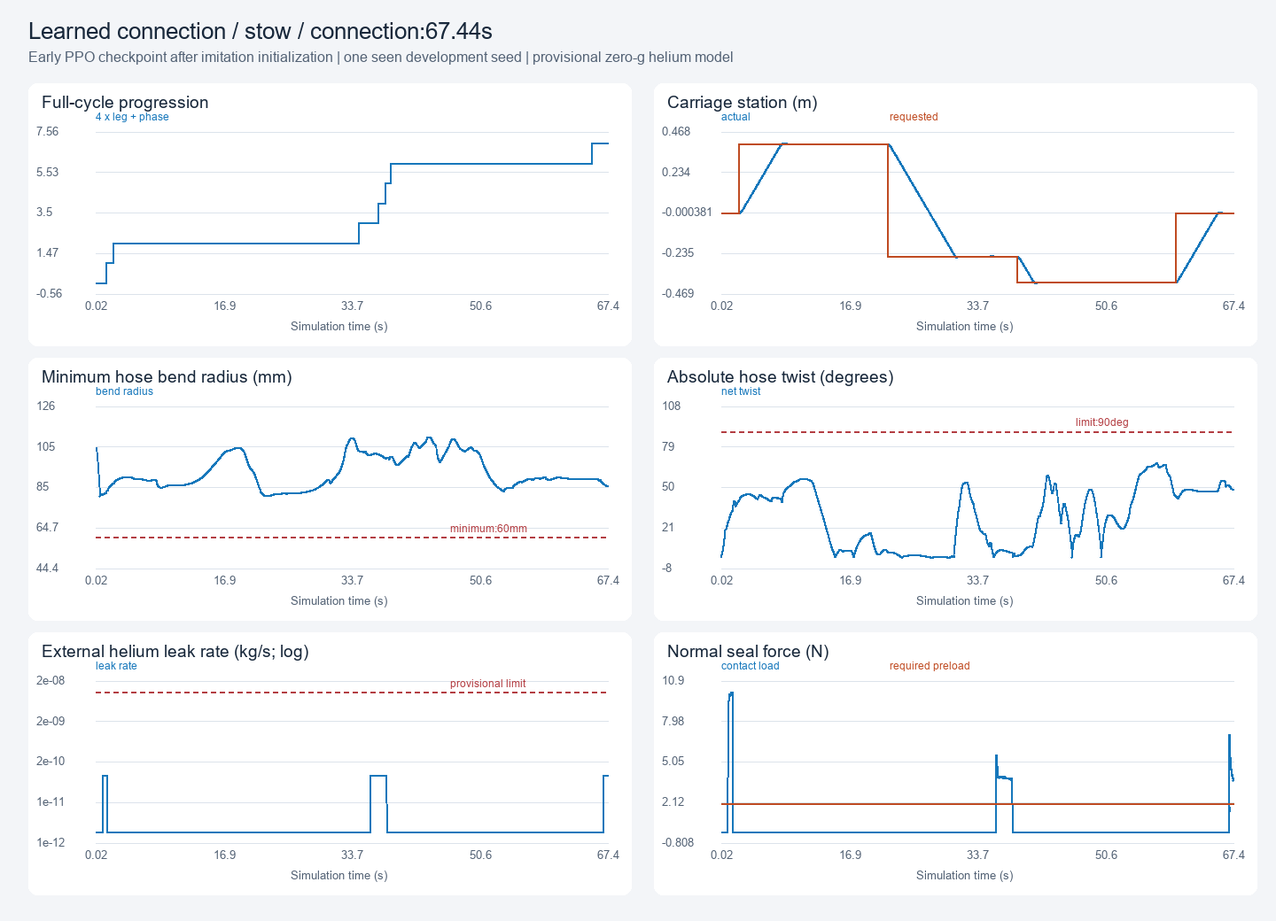
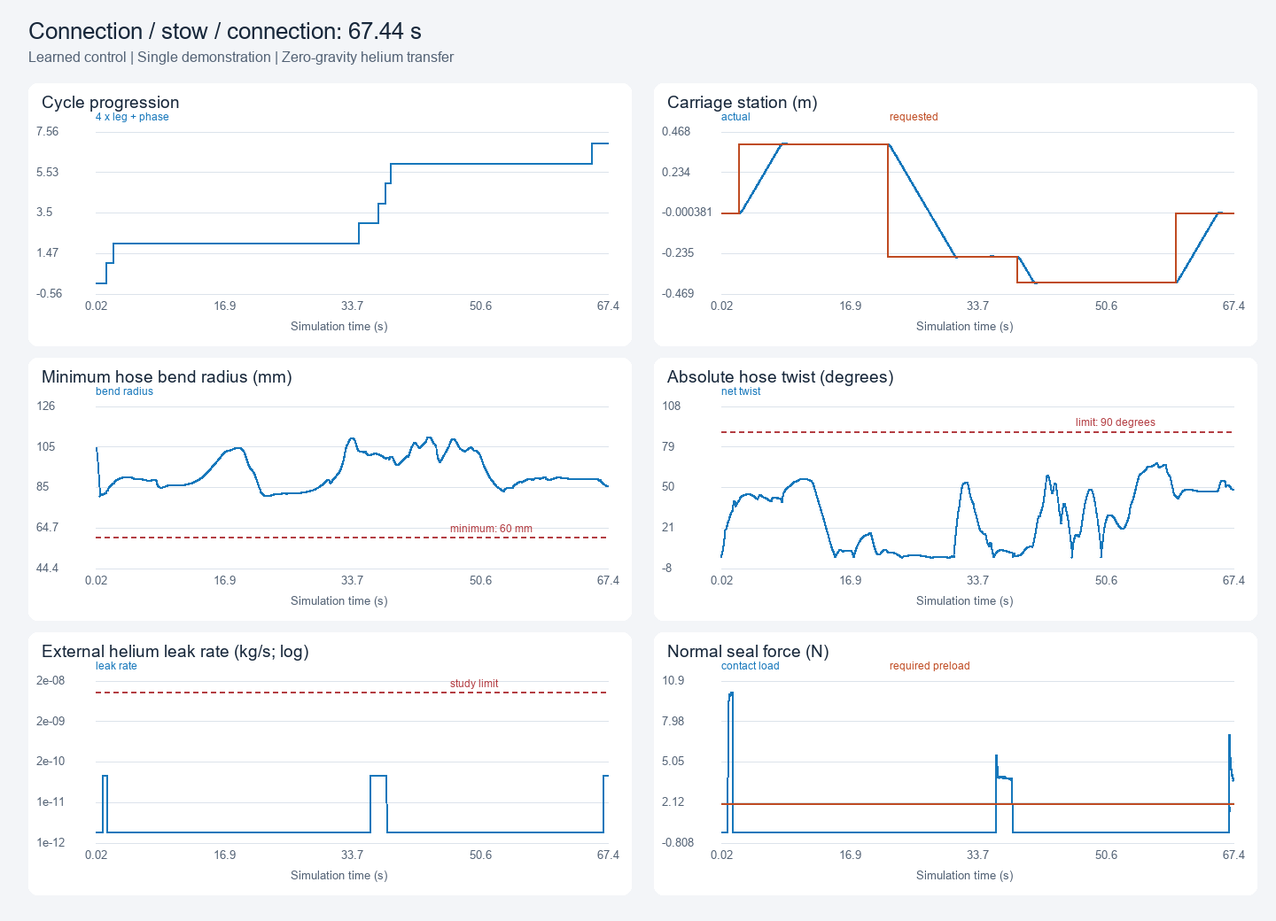
Simplify SHERPA copy and remove run-history clutter (#77)

diff --git a/projects/modeling/sherpa/training/index.html b/projects/modeling/sherpa/training/index.html
@@ -91,13 +91,13 @@ h2:hover .gy-hi{transform:rotate(-10deg) scale(1.1)}
 <header class="sm-intro"><p class="sm-eyebrow"><a href="../../../../index.html">Home</a> / <a href="../../">Simulations</a> / <a href="../">SHERPA</a></p>
 <p class="sm-eyebrow">SHERPA / Robot training study</p><h1>Arm, hose and rail</h1><p class="sm-lead">Circular-rail dynamics, coordinated docking policies and a straight-rail comparison.</p></header>
 <nav class="sm-nav" data-sm-strip="Training studies" tabindex="0" aria-label="Training studies, scroll horizontally"><a href="../robotics/">Mission robotics</a><a href="../refuel/">Mission refueling</a><a href="#rail-cart">Linear rail</a><a href="#circular-rail">Circular rail</a><a href="#rail-trade-study">Rail results</a><a href="#learned-cycle">Learned cycle</a><a href="#continuous-cycle">Scripted cycle</a><a href="#helium-connect">Connection</a><a href="#helium-stow">Purge stow</a><a href="#diagnostics">Plots</a></nav>
-<p>The local MuJoCo model uses a seven-joint Franka arm as a training proxy for the SHERPA FREND arms, a segmented flexible hose and zero gravity. The spacecraft deck is fixed; spacecraft recoil and attitude motion are outside this model. Each rail adds one degree of freedom. The original straight-rail preview uses a 1 m stroke; the matched PPO study uses 0.875 m of travel for each geometry. In this simplified model, the arm and hose reel ride on one cart and the sockets stay fixed.</p>
-<section id="design-alignment" aria-labelledby="design-alignment-title"><h2 id="design-alignment-title">SHERPA layout and training scope</h2>
+<p>This zero-gravity MuJoCo study uses a seven-joint Franka arm, a flexible hose and a rail cart. The arm and reel share the cart; the sockets remain fixed. The rail comparison uses 0.875 m of travel.</p>
+<section id="design-alignment" aria-labelledby="design-alignment-title"><h2 id="design-alignment-title">SHERPA layout</h2>
 <p>The intended SHERPA arrangement uses FREND arms on rail carts. A camera can be positioned by any available FREND arm, including an assisting arm observing hose handling. The hose carriages are intended to stow below the rail. The <a href="../robotics/#14_client_axis_lidar_access">CAD servicing views</a> and <a href="../refuel/#04_customer_refueling">hose retrieval and stow sequence</a> provide the mission context.</p>
-<p>The results below use a single fixed external RGB-D camera and a simplified reel/cart assembly with a lower purge socket. They establish a control baseline for that arrangement. Camera positioning by a FREND arm, visibility from its changing viewpoint and retrieval from the below-rail stow layout still need to be modeled and evaluated together.</p></section>
+<p>The training setup uses a fixed external RGB-D camera, a pregrasped connector and a lower purge socket. The next configuration adds a FREND-positioned camera and hose retrieval from the below-rail stow location.</p></section>
 <section class="sm-film" id="rail-cart" aria-labelledby="rail-cart-title">
 <p class="sm-eyebrow">Linear rail trade study / Scripted preview / Silent</p>
-<h2 id="rail-cart-title">Linear rail trade-study baseline</h2><p id="rail-cart-description">The intended SHERPA rail is circular. This straight-rail alternative is a scripted trade-study baseline: one translation axis carries the arm and reel, with the valve closed and the connector clear of the socket. It travels in both directions and returns to center. Dimensions, mass and drive parameters are provisional; this original preview is separate from the circular simulation and learned policies below.</p>
+<h2 id="rail-cart-title">Linear rail trade-study baseline</h2><p id="rail-cart-description">The intended SHERPA rail is circular. This straight-rail alternative is a scripted trade-study baseline: one translation axis carries the arm and reel, with the valve closed and the connector clear of the socket. It travels in both directions and returns to center. The preview shows carriage travel with the arm and reel mounted together.</p>
 <figure><video controls playsinline preload="none" width="960" height="720" style="aspect-ratio:960/720" poster="../../../../assets/media/modeling/sherpa-training/rail-cart.jpg" aria-label="Linear rail trade-study baseline" aria-describedby="rail-cart-description"><source src="../../../../assets/media/modeling/sherpa-training/rail-cart.mp4" type="video/mp4"><p><a href="../../../../assets/media/modeling/sherpa-training/rail-cart.mp4">Open Linear rail trade-study baseline MP4</a></p></video><figcaption>Linear rail trade-study baseline with scripted motion.</figcaption></figure></section><section class="sm-film" id="helium-connect" aria-labelledby="helium-connect-title">
 <p class="sm-eyebrow">Learned policy evaluation / Silent</p>
 <h2 id="helium-connect-title">Learned helium connection</h2><p id="helium-connect-description">Deterministic PPO rollout: an already grasped hose starts 40 mm from the overhead socket, aligns, seats and holds a helium leak check. The policy uses estimated RGB-D marker positions, noisy encoders and simulated instruments.</p>
@@ -106,16 +106,16 @@ h2:hover .gy-hi{transform:rotate(-10deg) scale(1.1)}
 <h2 id="helium-stow-title">Learned closed-return purge stow</h2><p id="helium-stow-description">Deterministic PPO rollout into the lower, upward-facing socket. The policy establishes a sealed hold with helium returning to a closed reservoir. The modeled task ends at purge initiation and stable pressure hold.</p>
 <figure><video controls playsinline preload="none" width="640" height="480" style="aspect-ratio:640/480" poster="../../../../assets/media/modeling/sherpa-training/helium-stow.jpg" aria-label="Learned closed-return purge stow" aria-describedby="helium-stow-description"><source src="../../../../assets/media/modeling/sherpa-training/helium-stow.mp4" type="video/mp4"><p><a href="../../../../assets/media/modeling/sherpa-training/helium-stow.mp4">Open Learned closed-return purge stow MP4</a></p></video><figcaption>Learned closed-return purge stow. Single policy evaluation rollout.</figcaption></figure></section>
 <section class="sm-film" id="circular-rail" aria-labelledby="circular-rail-title">
-<h2 id="circular-rail-title">Circular rail: carriage, arm and reel</h2><p id="circular-rail-description">The SHERPA source rail has a 1.25 m median radius. This proxy uses a provisional ±0.35 rad arc (0.875 m travel). Carriage yaw follows the track angle; the arm and reel turn with it. The scripted sweep keeps the valve closed and the connector clear of both sockets.</p>
+<h2 id="circular-rail-title">Circular rail: carriage, arm and reel</h2><p id="circular-rail-description">The SHERPA source rail has a 1.25 m median radius. The model uses a ±0.35 rad arc (0.875 m travel). Carriage yaw follows the track angle; the arm and reel turn with it. The scripted sweep keeps the valve closed and the connector clear of both sockets.</p>
 <figure><video controls playsinline preload="none" width="640" height="480" style="aspect-ratio:640/480" poster="../../../../assets/media/modeling/sherpa-training/circular-rail.jpg" aria-describedby="circular-rail-description"><source src="../../../../assets/media/modeling/sherpa-training/circular-rail.mp4" type="video/mp4"><p><a href="../../../../assets/media/modeling/sherpa-training/circular-rail.mp4">Open Circular rail: carriage, arm and reel MP4</a></p></video><figcaption>Scripted mechanics check. The swept clear-stow pose had no detected non-mate track/socket penetrations. Minimum hose bend radius was 79.3 mm; peak tangential drive force was 17.38 N. The checks use the training-model fixtures.</figcaption></figure></section>
 <section class="sm-film" id="circular-ppo-connect" aria-labelledby="circular-ppo-connect-title">
 <h2 id="circular-ppo-connect-title">Circular rail: learned near-socket connection</h2><p id="circular-ppo-connect-description">A PPO policy commands seven arm joints, a valve request and the cart drive from 61 instrument observations. This near-socket curriculum starts 40 mm from the selected socket with cart offsets within ±3 mm. Training focuses on final approach and docking.</p>
 <figure><video controls playsinline preload="none" width="640" height="480" style="aspect-ratio:640/480" poster="../../../../assets/media/modeling/sherpa-training/circular-ppo-connect.jpg" aria-describedby="circular-ppo-connect-description"><source src="../../../../assets/media/modeling/sherpa-training/circular-ppo-connect.mp4" type="video/mp4"><p><a href="../../../../assets/media/modeling/sherpa-training/circular-ppo-connect.mp4">Open Circular rail: learned near-socket connection MP4</a></p></video><figcaption>Successful connection rollout. The paired stow rollout failed; aggregate results are shown below.</figcaption></figure></section>
 <section class="sm-film" id="rail-trade-study" aria-labelledby="rail-trade-title">
 <h2 id="rail-trade-title">Linear versus circular rail</h2>
-<p>Both near-socket policies trained for 16,384 PPO steps, initialized from fixed-base weights and successful reference demonstrations. The same arm, fixtures, pressure assumptions and 0.875 m travel bounds are used. Evaluation covers ten connection and ten stow trials per geometry, with initial cart offsets within ±3 mm. This compares near-socket docking.</p>
+<p>Both rail policies use the same arm, fixtures and 0.875 m travel. Each trained for 16,384 PPO steps and was evaluated on ten connection and ten stow trials, starting near the socket.</p>
 <div style="overflow-x:auto" tabindex="0" role="region" aria-label="Measured near-socket rail comparison, scroll horizontally"><table style="width:100%;border-collapse:collapse;text-align:left;line-height:1.6">
-<caption style="text-align:left;padding:12px 0">Measured near-socket results; provisional simulation</caption>
+<caption style="text-align:left;padding:12px 0">Near-socket docking results</caption>
 <thead><tr><th scope="col">Metric</th><th scope="col">Linear rail</th><th scope="col">Circular rail</th></tr></thead><tbody>
 <tr><th scope="row">Connection success</th><td>9/10</td><td>8/10</td></tr>
 <tr><th scope="row">Stow success</th><td>5/10</td><td>3/10</td></tr>
@@ -126,18 +126,18 @@ h2:hover .gy-hi{transform:rotate(-10deg) scale(1.1)}
 <tr><th scope="row">All trials: maximum hose net twist</th><td>0.458 rad</td><td>0.588 rad</td></tr>
 <tr><th scope="row">Separate inverse-kinematic port screen</th><td>35/36</td><td>36/36</td></tr>
 </tbody></table></div>
-<p>Overlapping uncertainty intervals leave the configuration ranking unresolved. Duration and mechanical work average successful trials only; work integrates absolute actuator power. The 36-port inverse-kinematics screen uses identical world poses and matched travel. Dynamic reach also depends on collision clearance and hose routing.</p>
+<p>Error bars show 95% Wilson intervals. Duration and mechanical work average successful trials. The port screen measures inverse-kinematic reach across 36 shared target poses.</p>
 <figure><a href="../../../../assets/media/modeling/sherpa-training/rail-policy-comparison.png"><img src="../../../../assets/media/modeling/sherpa-training/rail-policy-comparison.png" width="1100" height="620" loading="lazy" decoding="async" style="display:block;width:100%;height:auto" alt="Fresh held-out docking success: linear 9 of 10 connection and 5 of 10 stow; circular 8 of 10 connection and 3 of 10 stow, with Wilson 95 percent intervals."></a><figcaption>Matched near-socket policy evaluation. Error bars show the uncertainty from ten trials per task.</figcaption></figure>
 <p><a href="../../../../assets/media/modeling/sherpa-training/near-socket-comparison.json">Trial-level comparison</a> / <a href="../../../../assets/media/modeling/sherpa-training/circular-verification.json">Circular sweep verification</a></p>
-<p>Continuous transfer uses a separate provisional side-entry adapter, rear connector stub, raised reel outlet and limited-angle axial swivel. Those changes are not part of the near-socket comparison above. Both earlier full-transfer baseline policies completed 32,768 PPO steps and achieved 0/20 held-out transfers each; an independently verified learned full-cycle development case is now available below. The verified scripted round trip and separate pressure/contact curriculum are shown below.</p>
+<p>The full-cycle setup uses a side-entry adapter, retracting reel and limited-angle swivel to manage hose routing.</p>
 </section>
 <!-- learned-cycle-proof:start -->
 <section class="sm-film" id="learned-cycle" aria-labelledby="learned-cycle-title">
-<p class="sm-eyebrow">Learned full-cycle development case / Early PPO checkpoint / Silent</p>
+<p class="sm-eyebrow">Learned full cycle / Silent</p>
 <h2 id="learned-cycle-title">Learned connection → stow → connection</h2>
-<p id="learned-cycle-description">The circular-carriage controller completes one independently executed 67.44 s cycle with a pregrasped connector, one physical hose and a continuous helium circuit. It receives a known waypoint/posture plan, marker-position estimates from a fixed external RGB-D camera, noisy encoders and simulated instruments. Learned joint-error feedback, neural contact/valve control and a learned cart-station head produce the control requests; no demonstration-controller actions are applied during this evaluation.</p>
-<figure><video controls playsinline preload="none" width="640" height="480" style="aspect-ratio:640/480" poster="../../../../assets/media/modeling/sherpa-training/learned-full-cycle.jpg" aria-describedby="learned-cycle-description"><source src="../../../../assets/media/modeling/sherpa-training/learned-full-cycle.mp4" type="video/mp4"><p><a href="../../../../assets/media/modeling/sherpa-training/learned-full-cycle.mp4">Open learned full-cycle MP4</a></p></video><figcaption>Development seed 42 was seen during initialization and recovery. This imitation-initialized checkpoint was saved at 1,024 rollout steps after three PPO updates. All 3,372 recorded states passed fresh-position contact/straight-lead and payload/reel clearance checks at 0.1 mm tolerance, alongside the runtime checks. The simulation uses zero gravity, a fixed deck and a fixed external sensor camera; it does not yet reproduce the FREND-positioned camera or below-rail hose-carriage stow layout. <a href="../../../../assets/media/modeling/sherpa-training/learned-cycle-verification.json">Cycle checks, limits and checkpoint provenance</a>.</figcaption></figure>
-<div style="overflow-x:auto" tabindex="0" role="region" aria-label="Verified development cycle metrics"><table style="width:100%;border-collapse:collapse;text-align:left;line-height:1.6"><caption style="text-align:left;padding:12px 0">One verified development case; provisional model bounds</caption><thead><tr><th scope="col">Metric</th><th scope="col">Recorded value</th><th scope="col">Criterion</th></tr></thead><tbody>
+<p id="learned-cycle-description">The learned controller moves the arm and circular cart through connection, purge stow and reconnection in 67.44 s. It follows a supplied waypoint plan using RGB-D marker estimates, noisy encoders and pressure/contact instruments. The hose and helium circuit remain continuous throughout the cycle.</p>
+<figure><video controls playsinline preload="none" width="640" height="480" style="aspect-ratio:640/480" poster="../../../../assets/media/modeling/sherpa-training/learned-full-cycle.jpg" aria-describedby="learned-cycle-description"><source src="../../../../assets/media/modeling/sherpa-training/learned-full-cycle.mp4" type="video/mp4"><p><a href="../../../../assets/media/modeling/sherpa-training/learned-full-cycle.mp4">Open learned full-cycle MP4</a></p></video><figcaption>One training-seed demonstration using a pregrasped connector and fixed external RGB-D camera. All 3,372 recorded states passed the contact and clearance checks. <a href="../../../../assets/media/modeling/sherpa-training/learned-cycle-verification.json">Cycle data and checks</a>.</figcaption></figure>
+<div style="overflow-x:auto" tabindex="0" role="region" aria-label="Cycle metrics"><table style="width:100%;border-collapse:collapse;text-align:left;line-height:1.6"><caption style="text-align:left;padding:12px 0">Single-demonstration measurements</caption><thead><tr><th scope="col">Metric</th><th scope="col">Recorded value</th><th scope="col">Criterion</th></tr></thead><tbody>
 <tr><th scope="row">Full cycle</th><td>67.44 s</td><td>Connection → purge stow → connection, continuous physics</td></tr>
 <tr><th scope="row">Minimum hose bend radius</th><td>80.53 mm</td><td>≥60 mm</td></tr>
 <tr><th scope="row">Peak hose twist</th><td>67.59°</td><td>≤90°</td></tr>
@@ -146,35 +146,26 @@ h2:hover .gy-hi{transform:rotate(-10deg) scale(1.1)}
 <tr><th scope="row">Pressure/contact dwell</th><td>1.0 s stow; 0.5 s connection</td><td>Closed purge return; accepted leak and pressure throughout each hold</td></tr>
 <tr><th scope="row">Absolute rail drive work</th><td>1.347 J</td><td>Integral of absolute mechanical actuator power for this case</td></tr>
 </tbody></table></div>
-<figure><a href="../../../../assets/media/modeling/sherpa-training/learned-cycle-telemetry.png"><img src="../../../../assets/media/modeling/sherpa-training/learned-cycle-telemetry.png" width="1440" height="1040" loading="lazy" decoding="async" style="display:block;width:100%;height:auto" alt="Verified learned full-cycle progression, cart station, hose bend radius and twist, helium leakage and seal load."></a><figcaption>The complete learned case, with the provisional bend and leak limits. Seal loading is required during interface checks; transit proceeds with the valve interlocked closed.</figcaption></figure>
-<h3>Training outcome and evaluation scope</h3>
-<p>The demonstrated checkpoint was selected using development seed 42. Robustness for that selected checkpoint remains unmeasured. The later 4,096-step continuation completed 0/1 seen-seed and 0/3 fresh-seed full cycles, although two trials reached the return leg. Its failures remain reported separately: <a href="../../../../assets/media/modeling/sherpa-training/feedback-finetune-evaluation.json">final-continuation evaluation</a>. More PPO steps did not preserve the nominal full-cycle result in this short run.</p>
-<p>A separate matched full-cycle baseline trained each rail for 16,384 PPO steps on the same physical reset seeds. Both scored 0/10 full cycles and 0/10 outbound transfers. Successful-cycle duration and drive work are unavailable for that baseline. Initialization and recovery data amounts differ, so these results do not isolate rail geometry. <a href="../../../../assets/media/modeling/sherpa-training/operational-cycle-comparison.json">Paired trials, failure flags and bounds</a>.</p>
-<figure><a href="../../../../assets/media/modeling/sherpa-training/operational-cycle-comparison.png"><img src="../../../../assets/media/modeling/sherpa-training/operational-cycle-comparison.png" width="1440" height="1040" loading="lazy" decoding="async" style="display:block;width:100%;height:auto" alt="Matched full-cycle baseline: neither linear nor circular rail completed ten evaluation trials; failed-trial bending, twist, work and duration are retained."></a><figcaption>Matched full-cycle PPO baseline. Failed-trial work and duration are not successful-cycle efficiency. No rail winner follows from these results; the learned circular demonstration above uses a later controller.</figcaption></figure>
+<figure><a href="../../../../assets/media/modeling/sherpa-training/learned-cycle-telemetry.png"><img src="../../../../assets/media/modeling/sherpa-training/learned-cycle-telemetry.png" width="1440" height="1040" loading="lazy" decoding="async" style="display:block;width:100%;height:auto" alt="Learned full-cycle progression, cart station, hose bend radius and twist, helium leakage and seal load."></a><figcaption>Cycle progression, carriage travel, hose bending and twist, helium leakage and seal load. The valve remains interlocked closed during transit.</figcaption></figure>
+<p><a href="../../../../assets/media/modeling/sherpa-training/feedback-finetune-evaluation.json">Policy evaluation data</a> / <a href="../../../../assets/media/modeling/sherpa-training/operational-cycle-comparison.json">Full-cycle rail trials</a></p>
 <h3>Camera observability through occlusion</h3>
-<p>The large animation view is a presentation camera. The inset labeled “Simulated RGB-D” shows the fixed external sensor view used to estimate tool and target markers: 320 × 240 pixels, 10 Hz and 100 ms measurement latency. The policy uses the resulting estimates and instruments rather than raw RGB images. This experiment does not test a camera carried by another FREND arm; that configuration must include the observing arm’s pose, calibration and occlusions.</p>
-<p>Tool position now propagates with noisy encoder forward kinematics and is corrected using RGB-D residuals aligned to the image capture time and tool orientation. On the same complete scripted physical trajectory, the 95th-percentile position error fell from 65.9 mm to 7.5 mm. A separate 4.5 s marker-outage check ended at 4.8 mm error versus 385 mm with the stale-image estimate. The uncertainty model remains provisional. <a href="../../../../assets/media/modeling/sherpa-training/tool-observability-comparison.json">Matched observer and outage checks</a>.</p>
-<figure><a href="../../../../assets/media/modeling/sherpa-training/tool-observability-comparison.png"><img src="../../../../assets/media/modeling/sherpa-training/tool-observability-comparison.png" width="1440" height="1040" loading="lazy" decoding="async" style="display:block;width:100%;height:auto" alt="Tool observability comparison on identical scripted states and actions: encoder prediction avoids a frozen camera position during occlusion."></a><figcaption>Observer comparison on bit-identical scripted states and actions. The provisional uncertainty envelope and the learned-policy success case are separate measurements.</figcaption></figure>
+<p>The inset labeled “Simulated RGB-D” is the fixed sensor view: 320 × 240 pixels at 10 Hz, with 100 ms measurement latency. PPO receives marker-position estimates and instrument readings. The large view shows the overall motion.</p>
+<p>Noisy encoder measurements propagate tool position between camera updates. RGB-D measurements correct the estimate at their capture time. On a shared scripted trajectory, 95th-percentile position error fell from 65.9 mm to 7.5 mm. <a href="../../../../assets/media/modeling/sherpa-training/tool-observability-comparison.json">Observer measurements</a>.</p>
+<figure><a href="../../../../assets/media/modeling/sherpa-training/tool-observability-comparison.png"><img src="../../../../assets/media/modeling/sherpa-training/tool-observability-comparison.png" width="1440" height="1040" loading="lazy" decoding="async" style="display:block;width:100%;height:auto" alt="Tool observability comparison on identical scripted states and actions: encoder prediction avoids a frozen camera position during occlusion."></a><figcaption>Camera and encoder estimates compared along the same scripted trajectory.</figcaption></figure>
 </section>
 <!-- learned-cycle-proof:end -->
 <section class="sm-film" id="continuous-cycle" aria-labelledby="continuous-cycle-title">
-<h2 id="continuous-cycle-title">Continuous hose cycle: mechanical verification</h2>
-<p id="continuous-cycle-description">Scripted connection → purge stow → connection on the circular carriage. One physical hose and helium circuit remain continuous through both legs, with zero physical-state jump at turnaround. The return retreats the carriage, turns the arm away from the overhead panel, then retraces the original withdrawal joint path through final docking. The sequence demonstrates mechanical feasibility using scripted control.</p>
-<figure><video controls playsinline preload="none" width="800" height="608" style="aspect-ratio:800/608" poster="../../../../assets/media/modeling/sherpa-training/circular-roundtrip.jpg" aria-describedby="continuous-cycle-description"><source src="../../../../assets/media/modeling/sherpa-training/circular-roundtrip.mp4" type="video/mp4"><p><a href="../../../../assets/media/modeling/sherpa-training/circular-roundtrip.mp4">Open scripted continuous hose cycle MP4</a></p></video><figcaption>The simulated cycle took 67.08 s. Minimum hose bend radius: 80.52 mm against a 60 mm provisional bound. Peak hose twist: 67.43° against a 90° bound. Final helium leakage: 7.25 × 10<sup>−11</sup> kg/s at approximately 20 kPa differential. Video includes a final-frame hold.</figcaption></figure>
-<p>All 3,354 recorded states passed an independent geometric replay audit of non-mate payload/arm and reel/arm-or-fixture pairs at 0.1 mm tolerance; the runtime checks reported no collision termination. These sampled checks cover the training-model geometry. <a href="../../../../assets/media/modeling/sherpa-training/circular-roundtrip-verification.json">Mechanical checks and bounds</a>.</p>
-<h3>Earlier full-transfer baseline: no completed transfers</h3>
-<p>The 32,768-step baseline used the earlier outlet assembly and independently initialized source loops. Across twenty held-out trials per geometry, both rails completed 0/20 full transfers (95% Wilson interval: 0–16.1%). Source checks completed in 6/20 linear and 9/20 circular trials. A successful-cycle duration or work comparison is unavailable because neither policy completed a transfer.</p>
-<p>Linear termination flags: three leak failures, eight routing failures and nine collisions. Circular: zero leak failures, six routing failures and fourteen collisions. Flags can overlap. Minimum recorded bend radii were 79.97 mm and 80.06 mm; peak twist reached 90.46° and 90.16°, including the states that triggered the 90° routing cutoff. These results belong to that older model. The later matched full-cycle baseline and independently verified learned development case are reported in the learned-cycle section. <a href="../../../../assets/media/modeling/sherpa-training/full-transfer-baseline-comparison.json">Baseline trials and metrics</a>.</p>
-<h3>Pressure/contact PPO before transit</h3>
-<p>Each rail trained for 8,192 additional PPO steps on the source pressure/contact check, with direct joint, cart and valve commands. Held-out evaluation covers ten connection checks and ten stow checks per geometry. Linear: 9/10 connection and 4/10 stow. Circular: 6/10 connection and 7/10 stow. Both completed 13/20 source checks, ending before transit.</p>
-<figure><a href="../../../../assets/media/modeling/sherpa-training/source-curriculum-comparison.png"><img src="../../../../assets/media/modeling/sherpa-training/source-curriculum-comparison.png" width="1000" height="620" loading="lazy" decoding="async" style="display:block;width:100%;height:auto" alt="Held-out source-check successes: linear 9 of 10 connection and 4 of 10 stow; circular 6 of 10 connection and 7 of 10 stow, with 95 percent Wilson intervals."></a><figcaption>Source pressure/contact curriculum only. Overlapping uncertainty intervals leave the rail ranking unresolved. <a href="../../../../assets/media/modeling/sherpa-training/source-curriculum-comparison.json">Trial counts and results</a>.</figcaption></figure>
+<h2 id="continuous-cycle-title">Scripted hose cycle</h2>
+<p id="continuous-cycle-description">A scripted reference moves the same hose from connection to purge stow and back. The return path withdraws the carriage, turns the arm clear of the panel and retraces the approach to docking.</p>
+<figure><video controls playsinline preload="none" width="800" height="608" style="aspect-ratio:800/608" poster="../../../../assets/media/modeling/sherpa-training/circular-roundtrip.jpg" aria-describedby="continuous-cycle-description"><source src="../../../../assets/media/modeling/sherpa-training/circular-roundtrip.mp4" type="video/mp4"><p><a href="../../../../assets/media/modeling/sherpa-training/circular-roundtrip.mp4">Open scripted continuous hose cycle MP4</a></p></video><figcaption>Scripted cycle: 67.08 s; minimum bend radius 80.52 mm; peak twist 67.43°; final helium leakage 7.25 × 10<sup>−11</sup> kg/s.</figcaption></figure>
+<p>Contact and clearance checks passed across 3,354 recorded states. <a href="../../../../assets/media/modeling/sherpa-training/circular-roundtrip-verification.json">Scripted-cycle data</a>.</p>
 </section>
-<section class="sm-film" id="training-method"><h2>What the policy learns</h2><p>The completed fixed-base policy trained for 50,176 environment steps after initialization from four successful reference trajectories. It commands seven joint increments and a valve request, using 54 observations from simulated RGB-D localization, encoders, reel and pressure/contact instruments. Each episode begins pregrasped, 40 mm from its selected socket. This original policy tests one socket at a time. The later coordinated rail policies and their separate evaluation are described above; hose pickup remains outside these pregrasped tasks.</p>
-<p>Reward favors alignment, seal contact coverage, adequate preload and a stable pressure hold. Leaks, unnecessary motion and blocked valve requests incur penalties. Success earns +20; leak failure, overload or invalid grasp incurs -20. Success requires at least six of eight loaded seal sectors, adequate normal force and friction margin, pressure above 85% nominal and leakage below the provisional threshold throughout a 0.5 s connection hold or 1 s stow hold.</p>
-<p>In two held-out episodes per task, connection succeeded in 2/2 and purge stow in 1/2, with no leak-failure terminations. These four diagnostic episodes provide a small initial sample. The videos show separate policy evaluations; the near-socket rail policies use the larger comparison above.</p></section>
-<section class="sm-film" id="diagnostics"><h2>Learning and physics diagnostics</h2><figure><a href="../../../../assets/media/modeling/sherpa-training/ppo-learning.png"><img src="../../../../assets/media/modeling/sherpa-training/ppo-learning.png" width="1440" height="1040" loading="lazy" decoding="async" style="display:block;width:100%;height:auto" alt="PPO per-task success, return, leak failures, final error and duration over training steps."></a><figcaption>Exploratory training outcomes, with rolling means of up to 20 episodes per task. Task success is tracked alongside episode return.</figcaption></figure><figure><a href="../../../../assets/media/modeling/sherpa-training/learned-stow-physics.png"><img src="../../../../assets/media/modeling/sherpa-training/learned-stow-physics.png" width="1440" height="1040" loading="lazy" decoding="async" style="display:block;width:100%;height:auto" alt="Learned stow rollout: position error, seal contact coverage, preload, pressure, leakage and reward."></a><figcaption>Learned stow rollout. The dashed line marks the assumed leak limit used for training.</figcaption></figure><figure><a href="../../../../assets/media/modeling/sherpa-training/rail-motion.png"><img src="../../../../assets/media/modeling/sherpa-training/rail-motion.png" width="1440" height="1040" loading="lazy" decoding="async" style="display:block;width:100%;height:auto" alt="Cart displacement, speed, drive force, socket distance and closed-valve leakage during the linear-rail baseline."></a><figcaption>Linear-rail trade-study baseline at a clear transit pose, with the valve closed. Circular mechanics and near-socket learned rail control are shown separately above; learned continuous transfer remains experimental.</figcaption></figure></section>
-<section class="sm-film" id="assumptions"><h2>Model assumptions</h2><p>Helium starts at a provisional 20 kPa differential to external vacuum. A closed 5 kPa return reservoir receives purge flow. Pressure changes empirical hose stiffness and applies a separating load; effective seal area and a compressible-orifice model approximate leakage and recoil. The provisional leak limit is 10<sup>-8</sup> kg/s, with a 0.10 s failure dwell. Seal wear, molecular-flow leakage, fluid temperature coupling and real detector calibration are not represented. A liquid capillary trap is deferred.</p><p>The Franka geometry originates from NVIDIA's Isaac Sim asset library. The SimReady hose reference is by NVIDIA under CC BY 4.0; the moving hose is an authored segmented dynamics surrogate. Arm and rail geometry here are training substitutes for SHERPA hardware. Flight qualification requires hardware testing.</p>
-<p><a href="../../../../assets/media/modeling/sherpa-training/simulation-summary.json">Simulation data</a> / <a href="https://huggingface.co/datasets/nvidia/simready-assets">NVIDIA SimReady assets</a> / <a href="../robotics/">SHERPA mission robotics</a></p></section>
+<section class="sm-film" id="training-method"><h2>What the policy learns</h2><p>PPO learns arm-joint, valve and cart commands. Training begins with a grasped hose near a socket, then progresses to coordinated travel between connection and stow. Reference demonstrations initialize the controller.</p>
+<p>Reward favors alignment, seal coverage, adequate preload and stable pressure. Leaks, excess motion and blocked valve requests incur penalties. Success requires at least six of eight loaded seal sectors, sufficient normal force and friction margin, pressure above 85% nominal and leakage below the study limit for a 0.5 s connection hold or 1 s stow hold.</p>
+</section>
+<section class="sm-film" id="diagnostics"><h2>Learning and physics diagnostics</h2><figure><a href="../../../../assets/media/modeling/sherpa-training/ppo-learning.png"><img src="../../../../assets/media/modeling/sherpa-training/ppo-learning.png" width="1440" height="1040" loading="lazy" decoding="async" style="display:block;width:100%;height:auto" alt="PPO per-task success, return, leak failures, final error and duration over training steps."></a><figcaption>Exploratory training outcomes, with rolling means of up to 20 episodes per task. Task success is tracked alongside episode return.</figcaption></figure><figure><a href="../../../../assets/media/modeling/sherpa-training/learned-stow-physics.png"><img src="../../../../assets/media/modeling/sherpa-training/learned-stow-physics.png" width="1440" height="1040" loading="lazy" decoding="async" style="display:block;width:100%;height:auto" alt="Learned stow rollout: position error, seal contact coverage, preload, pressure, leakage and reward."></a><figcaption>Learned stow rollout. The dashed line marks the assumed leak limit used for training.</figcaption></figure><figure><a href="../../../../assets/media/modeling/sherpa-training/rail-motion.png"><img src="../../../../assets/media/modeling/sherpa-training/rail-motion.png" width="1440" height="1040" loading="lazy" decoding="async" style="display:block;width:100%;height:auto" alt="Cart displacement, speed, drive force, socket distance and closed-valve leakage during the linear-rail baseline."></a><figcaption>Linear-cart travel, drive force and hose measurements with the valve closed.</figcaption></figure></section>
+<section class="sm-film" id="assumptions"><h2>Study settings</h2><p>The helium model uses a 20 kPa supply differential to vacuum and a closed 5 kPa purge-return reservoir. Pressure affects hose stiffness and connector load; a compressible-orifice model estimates leakage. Study limits are 10<sup>−8</sup> kg/s leakage, 60 mm minimum bend radius and 90° hose twist. These are simulation settings for the fixed-deck model.</p><p>The Franka geometry comes from NVIDIA’s Isaac Sim asset library. NVIDIA’s SimReady hose reference is licensed CC BY 4.0; the dynamic hose uses a segmented model.</p>
+<p><a href="../../../../assets/media/modeling/sherpa-training/simulation-summary.json">Simulation data</a> / <a href="../../../../assets/media/modeling/sherpa-training/full-transfer-baseline-comparison.json">Transfer trials</a> / <a href="../../../../assets/media/modeling/sherpa-training/source-curriculum-comparison.json">Contact trials</a> / <a href="https://huggingface.co/datasets/nvidia/simready-assets">NVIDIA SimReady assets</a> / <a href="../robotics/">SHERPA mission robotics</a></p></section>
 </main>
 <footer id="contact" style="position: relative; z-index: 1; border-top: 1.5px solid var(--foreground); background: var(--background);">
 <div style="max-width: 1200px; margin: 0 auto; padding: 72px 32px 40px; display: flex; flex-direction: column; gap: 40px;">
